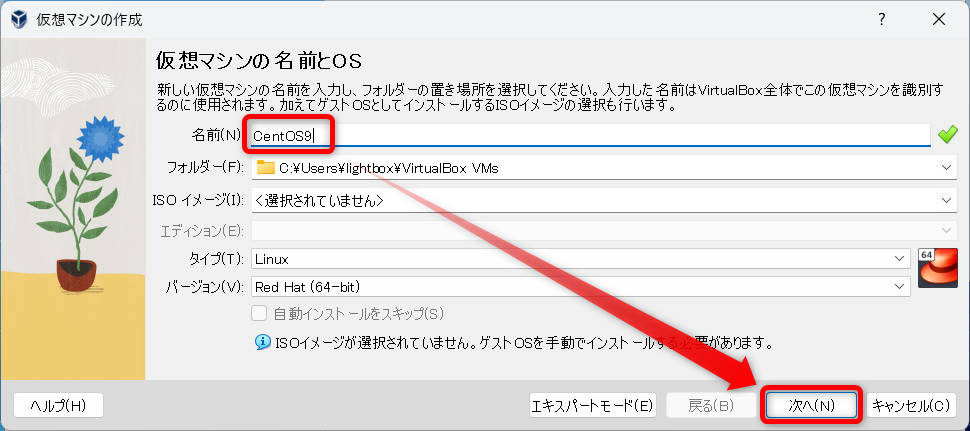
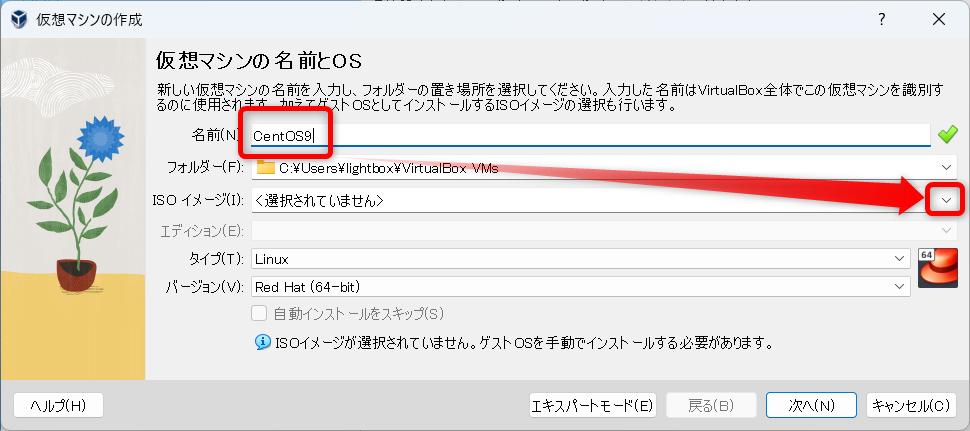
手順書修正

diff --git a/README.md b/README.md
@@ -21,8 +21,17 @@ https://www.centos.org/
 `新規`をクリック  
 ![](images/005.png)
 
-`名前`に`CentOS9`と入力して`次へ`をクリック  
+`名前`に`CentOS9`と入力して`ISOイメージ`の`↓`をクリック  
 ![](images/006.png)
+
+`その他`をクリック
+![](images/006-2.png)
+
+`ダウンロード`フォルダからダウンロードした`CentOS-Stream-9～.iso`ファイルを選択して`開く`をクリック
+![](images/006-3.png)
+
+`自動インストールをスキップ`にチェックを入れて`次へ`をクリック  
+![](images/006-4.png)
 
 `EFIを有効化(一部のOSのみ)`にチェックを入れて`次へ`をクリック  
 ![](images/007.png)
@@ -33,10 +42,10 @@ https://www.centos.org/
 `完了`をクリック  
 ![](images/009.png)
 
+### ポートフォワーディングの設定
+
 `設定`をクリック  
 ![](images/010.png)
-
-### ポートフォワーディングの設定
 
 `ネットワーク`をクリック  
 ![](images/011.png)
@@ -61,9 +70,6 @@ https://www.centos.org/
 | 80   | HTTP用   |
 | 3306 | MySQL用  |
 | 8080 | Tomcat用 |
-| 20   | FTP用    |
-| 21   | FTP用    |
-| 445  | Samba用  |
 
 `OK`をクリック  
 ![](images/016.png)
@@ -72,18 +78,6 @@ https://www.centos.org/
 
 `起動`をクリック  
 ![](images/017.png)
-
-`↓`をクリック  
-![](images/018.png)
-
-`その他`をクリック  
-![](images/019.png)
-
-`ダウンロード`フォルダにダウンロードしたCentOS Stream 9の`.iso`ファイルを選択して`開く`をクリック
-![](images/020.png)
-
-`マウントとブートのリトライ`をクリック  
-![](images/021.png)
 
 このような画面が表示されたら`次回からこのメッセージを表示しない`にチェックして`キャプチャー`をクリック  
 ※右Ctrlキーで抜け出せる  
@@ -141,73 +135,10 @@ https://www.centos.org/
 `必要ありません`をクリック  
 ![](images/043.png)
 
-`ターミナル`アプリをクリック  
-![](images/044.png)
-
-下記コマンドを実行
-
-```bash
-sudo dnf upgrade -y
-```
-
-パスワードを入力する  
-※入力されていないように見えるが、入力されている  
-![](images/045.png)
-
-`完了しました！`が表示されたらOK  
-![](images/046.png)
-
-下記コマンドを実行
-
-```bash
-LANG=C xdg-user-dirs-gtk-update
-```
-
-![](images/047.png)
-
-`Update Names`をクリック  
-![](images/048.png)
-
-右上のエリアから再起動をする  
-![](images/049.png)
-![](images/050.png)
-![](images/051.png)
-
-再度ログインする  
-![](images/052.png)
-![](images/053.png)
-
-`次回から表示しない`にチェックを入れて`古い名前のままにする`をクリック
-![](images/054.png)
-
-## SSHサーバーの起動
-
-`ターミナル`アプリをクリック  
-![](images/055.png)
-
-下記コマンドを実行
-
-```bash
-sudo systemctl start sshd.service
-```
-
-![](images/056.png)
-
-パスワードを入力する 
-![](images/057.png)
-
-```bash
-sudo systemctl status sshd.service
-```
-
-![](images/058.png)
-
-Active: active (running) になっていれば起動成功です。  
-![](images/059.png)
-
 ## Tera TermからSSH接続
 
 - `ホスト` : localhost  
+- `TCPポート` : 22 である事を確認
 
 ![](images/060.png)
 
@@ -238,5 +169,18 @@ SSH接続成功
 `はい`をクリック  
 ![](images/075.png)
 
+## アップデート
 
+下記コマンドを実行してアップデートする
+
+```bash
+sudo dnf upgrade -y
+```
+
+パスワードを入力する  
+※入力されていないように見えるが、入力されている  
+![](images/045.png)
+
+`完了しました！`が表示されたらOK  
+![](images/046.png)
 
